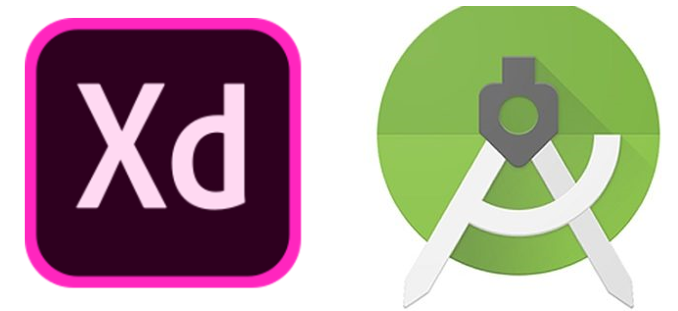
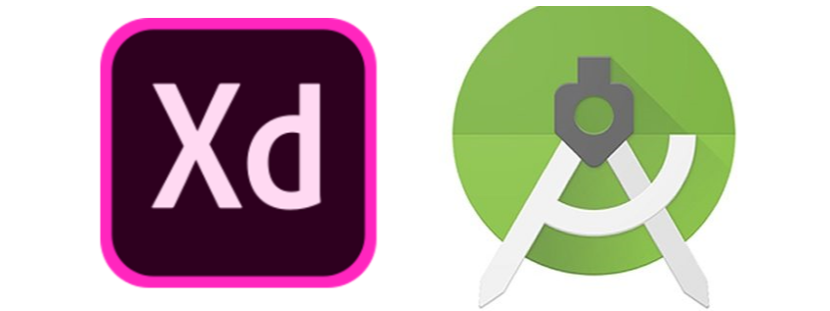
pic size

diff --git a/index.html b/index.html
@@ -82,7 +82,7 @@
                 <div class="col-4 col-6-medium col-12-small">
                     <section class="box style1">
                         <!--<span class="icon featured fa-camera-retro"></span>-->
-                        <div class="image fit2"><img src="images/xdas.png" , width="273"></div>
+                        <div class="image"><img src="images/xdas.png" ,  height="125"></div>
                         <h3>High-fi</h3>
                         <p>Play on your PC/Mac. <br>Built with <a href="https://www.adobe.com/tw/products/xd.html">Adobe
 								XD</a>, <a href="https://developer.android.com/studio">Android Studio.</a></p>

diff --git a/assets/css/main.css b/assets/css/main.css
@@ -1413,11 +1413,12 @@ section> :last-child, article> :last-child, section:last-child, article:last-chi
 }
 .image.fit2 {
     top: 10;
-    left: 10;
+    left: 20;
     display: block;
     width: 92%;
     height: 92%;
     overflow: hidden;
+    float: center;
     align-content: center;
 }
 .image.featured {
